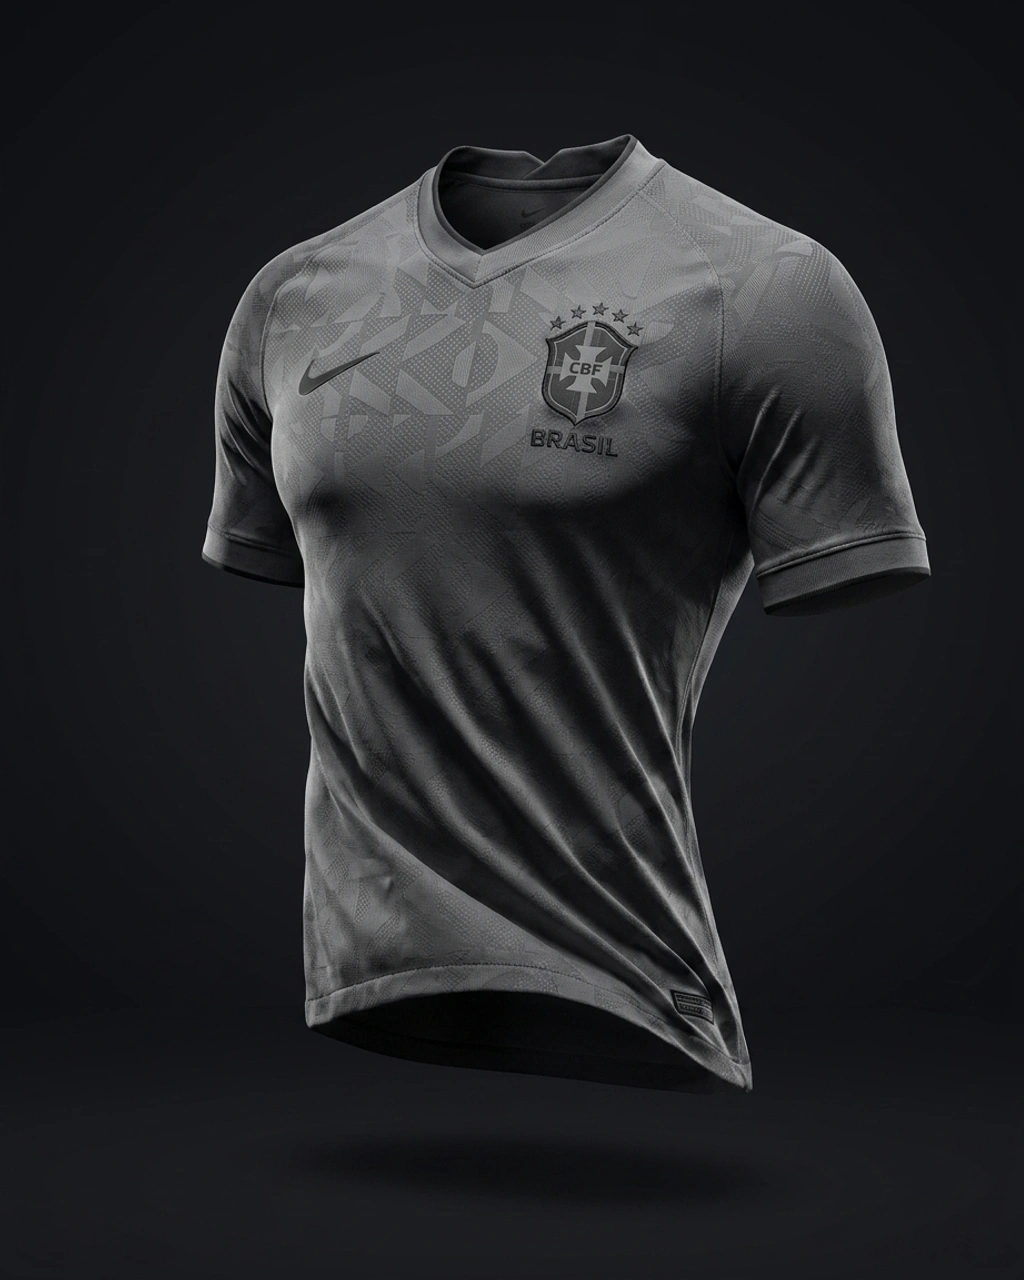
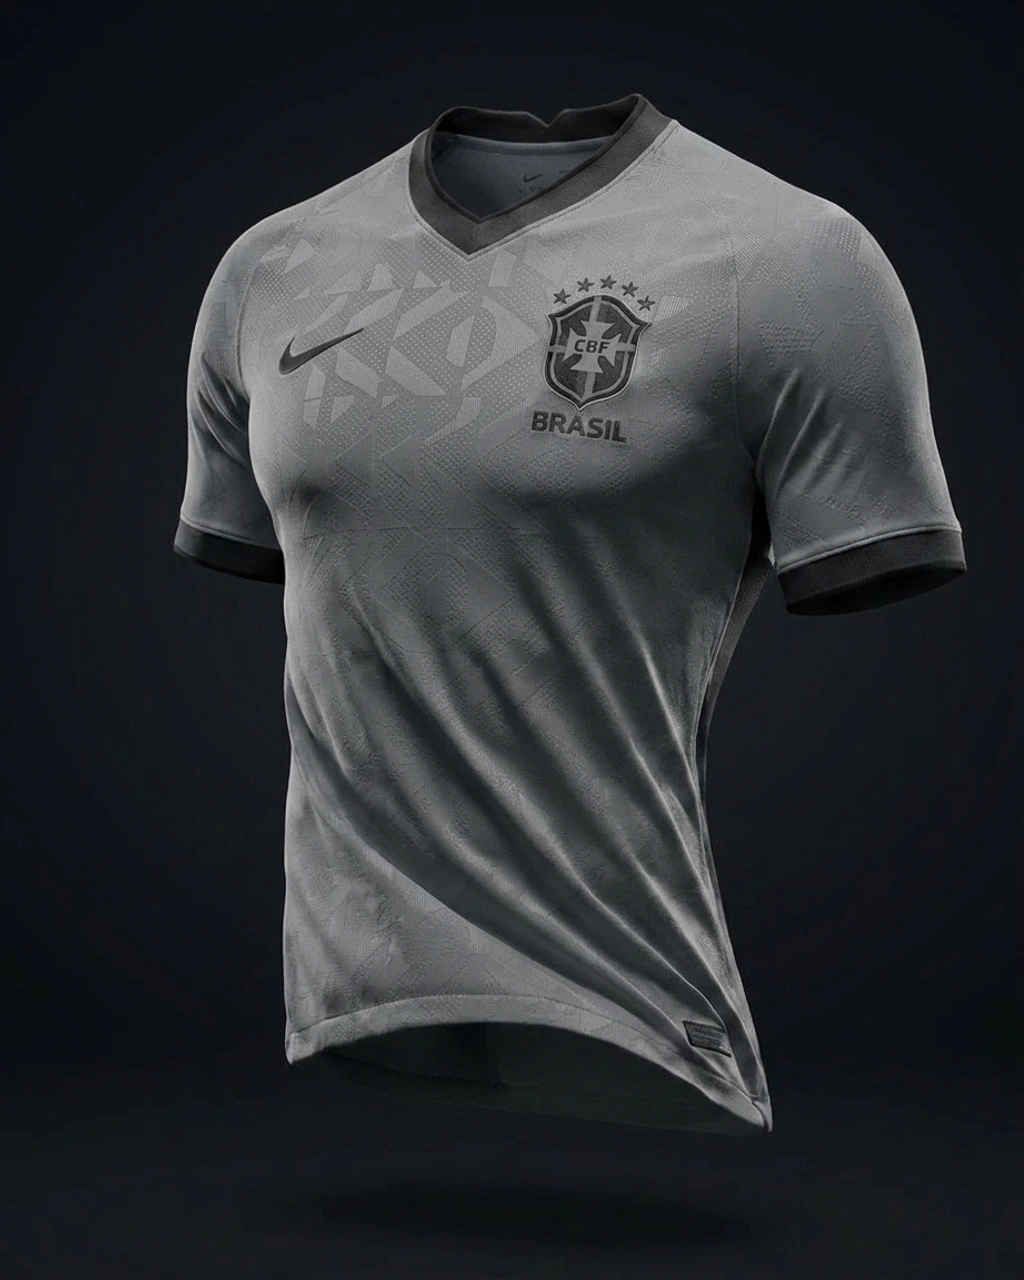
feat: update jersey cover images for Brazil 2026 collection
- Replaced existing jersey cover images for Brazil's 2026 jerseys in both color and grayscale formats with new versions to enhance visual fidelity.
- Updated the cover generation script to support higher resolution and improved quality settings for the new images.
- Ensured consistency across the Copa 2026 collection with the latest design specifications.

Changed region(s): [[0.1562, 0.0625, 0.9375, 0.875]]

diff --git a/gabinete-fc/scripts/generate-cover-real-ref.ts b/gabinete-fc/scripts/generate-cover-real-ref.ts
@@ -40,11 +40,12 @@ async function loadImageBase64(fullPath: string): Promise<{ data: string; mime: 
   return { data: buf.toString('base64'), mime }
 }
 
-async function loadPhotoAsJpeg(fullPath: string): Promise<{ data: string; mime: string }> {
+async function loadPhotoAsJpeg(fullPath: string, opts?: { hiRes?: boolean }): Promise<{ data: string; mime: string }> {
   const buf = await fs.readFile(fullPath)
+  const size = opts?.hiRes ? 1024 : 768
   const jpegBuf = await sharp(buf)
-    .resize(768, 1024, { fit: 'inside' })
-    .jpeg({ quality: 90 })
+    .resize(size, Math.round(size * 1.33), { fit: 'inside' })
+    .jpeg({ quality: opts?.hiRes ? 92 : 90 })
     .toBuffer()
   return { data: jpegBuf.toString('base64'), mime: 'image/jpeg' }
 }
@@ -83,18 +84,70 @@ Background: deep matte charcoal-black studio cyclorama, soft contact shadow. Lig
 Empty floating product shot — no mannequin, no hanger, no person, no body, no display stand. Hyper-realistic, 8k resolution, photorealistic, premium "blackout" colorway.`
 }
 
-async function listRealPhotos(slug: string): Promise<string[]> {
+function buildColorPromptHighFidelity(p: Preset): string {
+  return `Professional product photography, ultra-detailed studio shot of a premium ${p.team} national football team jersey (kit ${p.variant}). This is a MAXIMUM-FIDELITY REPLICATION job — the output must look identical to the real jersey in every visible detail.
+
+HOW TO USE THE REFERENCE IMAGES (read VERY carefully — this is the most important instruction in the entire prompt):
+- The FIRST reference image is the EXISTING STUDIO COVER. You MUST replicate ONLY its POSE, ANGLE, ROTATION, FRAMING, BACKGROUND and LIGHTING with pixel-level fidelity. SAME direction the torso is rotated, SAME shoulder elevation, SAME crop, SAME charcoal-black studio cyclorama, SAME dramatic chiaroscuro lighting. DO NOT copy the design (colors, pattern, collar style, sleeve trims, crest art) from this first image — its design will be REPLACED by what the real-jersey photos show.
+- The SECOND reference image is the federation crest art.
+- The REMAINING reference images (there are 5 of them) are PHOTOS OF THE REAL JERSEY currently being sold. Each photo shows a different angle/detail. STUDY ALL OF THEM CAREFULLY and replicate EXACTLY:
+  • The EXACT primary body color tone (do NOT approximate — match the precise hue and saturation visible in the photos)
+  • Every secondary accent color (e.g. turquoise/teal/cyan vs simple green vs lime — match precisely what the photos show)
+  • The COMPLETE all-over fabric pattern visible on the body (jacquard, embossed motifs, gradient effects, dripping wave patterns, multi-zone designs — render every element exactly as in the photos; do NOT simplify, do NOT generalize, do NOT substitute with a generic pattern)
+  • The exact collar geometry (V-neck depth, ribbed trim, inner contrast band color, layering)
+  • The exact sleeve cuff trim (color, stripes, piping, inner accent color)
+  • The exact crest layout (stars, federation badge colors and shape, country name wordmark color and font)
+  • The exact brand mark (Nike swoosh / Jumpman / Puma / Adidas — including its color, size and exact position)
+  • Side panels, dorsal stripes, sponsor heat-press, hem details — every visible element
+- DO NOT copy the pose, camera angle, framing, lighting, mannequin, store-background from the real-jersey photos — those are flat frontal store/mannequin shots and that POSE is WRONG. Use the FIRST reference for pose, the REAL PHOTOS for design.
+
+FINAL OUTPUT FORMULA: pose/angle/framing/background/lighting from the FIRST reference (existing cover) + EVERY visible design detail (color, pattern, collar, sleeves, crest, brand) from the real-jersey photos = the new cover.
+
+CRITICAL FIDELITY RULE: a customer who owns this jersey must look at the cover and immediately recognize their own jersey — same color tones, same pattern, same accents, same crest layout. If any visible detail in the real photos is missing or simplified in the cover, the output is WRONG. Generic patterns, approximated colors, missing accents — all FORBIDDEN.
+
+Background: deep matte charcoal-black studio cyclorama with subtle tonal depth, soft contact shadow grounding the jersey. Lighting: powerful directional top-down cinematic studio lighting with rim light separating the silhouette from the dark background. Fabric: extreme focus on the dry-fit mesh texture and the EXACT tonal/multi-color pattern visible in the real-jersey photos.
+
+Empty floating product shot — no mannequin visible, no hanger, no person, no body, no display stand, no banner, no store background. Hyper-realistic, 8k resolution, photorealistic, ultra-sharp focus, premium sports catalog style. ${p.details}.`
+}
+
+function buildBlackoutPromptHighFidelity(p: Preset): string {
+  return `Professional product photography, ultra-detailed shot of a premium ${p.team} national football team jersey in a deep grayscale colorway. This is a MAXIMUM-FIDELITY REPLICATION job — the output must look identical to the real jersey in every visible structural detail, only with all colors converted to neutral monochrome gray.
+
+HOW TO USE THE REFERENCE IMAGES (read very carefully):
+- The FIRST reference image is the NEW COLORED COVER you must mirror — match its POSE, ANGLE, ROTATION, FRAMING, CROP, BACKGROUND and LIGHTING with pixel-level fidelity. The two covers (color + gray) MUST look like the same product photographed in the same studio setup, only differing in colorway.
+- The REMAINING reference images (5 of them) are PHOTOS OF THE REAL JERSEY. STUDY ALL OF THEM and replicate every structural design detail: the COMPLETE all-over fabric pattern (jacquard, embossed motifs, gradient, multi-zone designs — render the EXACT pattern as a subtle gray-on-gray tonal motif, do NOT smooth out, do NOT simplify), exact collar shape and layering, exact sleeve cuff structure, exact crest layout, exact brand logo placement.
+- DO NOT copy the pose, camera angle, framing or lighting from the real-jersey photos.
+
+FINAL OUTPUT FORMULA: pose/angle/framing/background/lighting from the FIRST reference (colored cover) + EVERY structural design detail from the real-jersey photos + ALL colors converted to neutral monochrome grayscale (NO blue tint, NO cyan, NO cool tones — neutral or slightly warm grays only) = the new gray cover.
+
+CRITICAL: preserve the exact fabric pattern from the real photos — render every element of the jacquard/embossed motif as gray-on-gray tonal detail. Generic smoothed-out body is FORBIDDEN. The ${p.crest} stays in dark gray embroidery on the LEFT chest (viewer's right). The ${p.brand} logo as a tonal dark-gray heat-press.
+
+Background: deep matte charcoal-black studio cyclorama, soft contact shadow. Lighting: high-contrast chiaroscuro with prominent neutral-white rim lighting separating the gray jersey from the dark background.
+
+Empty floating product shot — no mannequin, no hanger, no person, no body, no display stand. Hyper-realistic, 8k resolution, photorealistic, premium "blackout" colorway.`
+}
+
+async function listRealPhotos(slug: string, max = 2): Promise<string[]> {
   try {
     const files = await fs.readdir(path.join(PHOTOS_DIR, slug))
     return files
       .filter((f) => PHOTO_EXT_RE.test(f))
       .sort()
-      .slice(0, 2) // pegamos as 2 primeiras (frente + detalhe)
+      .slice(0, max)
       .map((f) => path.join(PHOTOS_DIR, slug, f))
   } catch {
     return []
   }
 }
+
+/**
+ * Slugs que precisam de máxima fidelidade — usam mais fotos de referência (5)
+ * em alta resolução, e prompt reforçado de "match EVERY detail".
+ */
+const HIGH_FIDELITY_SLUGS = new Set<string>([
+  'camisa-brasil-2026',
+  'camisa-brasil-ii-2026',
+])
 
 async function hasExistingCover(slug: string): Promise<string | null> {
   const p = path.join(COVERS_DIR, `${slug}-cover-color.webp`)
@@ -136,7 +189,8 @@ async function findQualifyingSlugs(only?: string): Promise<Qualified[]> {
       console.warn(`  ⏭  ${slug}: preset não encontrado`)
       continue
     }
-    const realPhotos = await listRealPhotos(slug)
+    const maxPhotos = HIGH_FIDELITY_SLUGS.has(slug) ? 5 : 2
+    const realPhotos = await listRealPhotos(slug, maxPhotos)
     if (realPhotos.length === 0) {
       if (only) console.warn(`  ⏭  ${slug}: sem fotos reais em /photos/${slug}/`)
       continue
@@ -193,16 +247,17 @@ async function generateAndSave(q: Qualified) {
     }
   }
 
-  // Fotos reais convertidas pra JPEG
+  // Fotos reais convertidas pra JPEG (hi-res para slugs high-fidelity)
+  const hiRes = HIGH_FIDELITY_SLUGS.has(slug)
   const realRefs: Array<{ base64: string; mime: string }> = []
   for (const photoPath of realPhotos) {
-    const r = await loadPhotoAsJpeg(photoPath)
+    const r = await loadPhotoAsJpeg(photoPath, { hiRes })
     realRefs.push({ base64: r.data, mime: r.mime })
   }
 
   // [1/2] colorida
-  console.log('  → [1/2] colorida (pose-anchor=capa atual + brasão + fotos reais)')
-  const colorPrompt = buildColorPrompt(preset)
+  console.log(`  → [1/2] colorida (pose-anchor + brasão + ${realRefs.length} foto(s) reais${hiRes ? ', hi-res' : ''})`)
+  const colorPrompt = hiRes ? buildColorPromptHighFidelity(preset) : buildColorPrompt(preset)
   const colorResult = await generateJerseyCover({
     prompt: colorPrompt,
     referenceImageBase64: poseAnchorBuf.toString('base64'),
@@ -212,8 +267,8 @@ async function generateAndSave(q: Qualified) {
   const colorBuffer = Buffer.from(colorResult.imageBase64, 'base64')
 
   // [2/2] apagada
-  console.log('  → [2/2] apagada (pose-anchor=colorida nova + fotos reais)')
-  const blackoutPrompt = buildBlackoutPrompt(preset)
+  console.log(`  → [2/2] apagada (pose-anchor=colorida nova + ${realRefs.length} foto(s) reais${hiRes ? ', hi-res' : ''})`)
+  const blackoutPrompt = hiRes ? buildBlackoutPromptHighFidelity(preset) : buildBlackoutPrompt(preset)
   const colorAsAnchor = await sharp(colorBuffer)
     .resize(512, 640, { fit: 'inside' })
     .jpeg({ quality: 85 })
